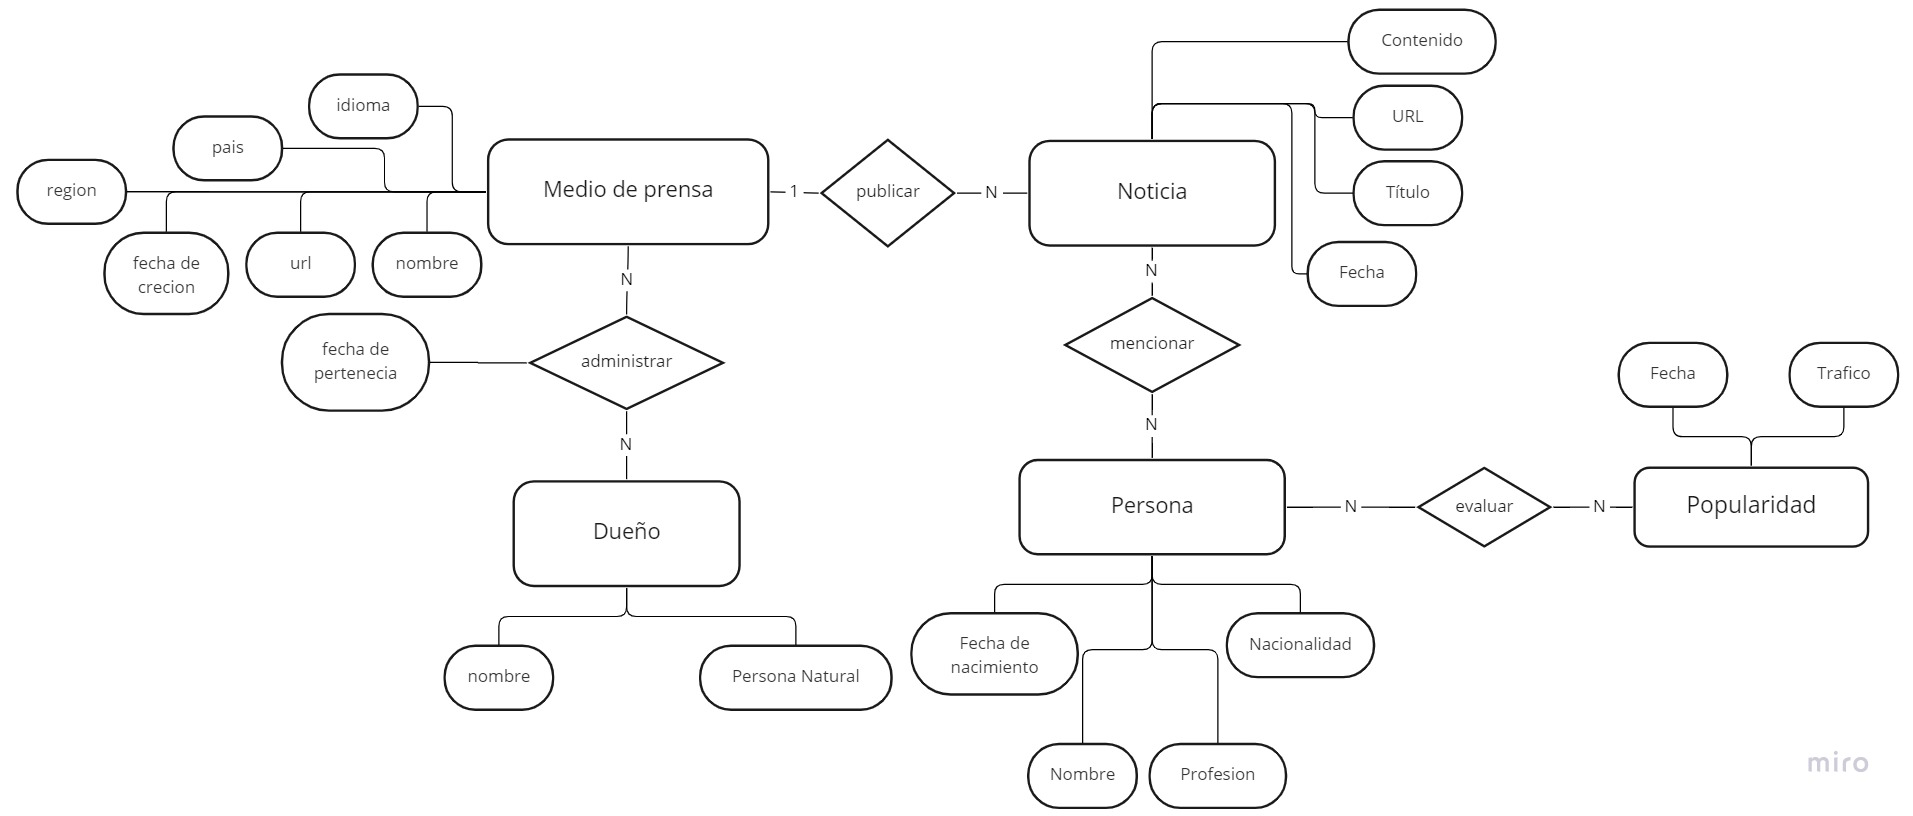
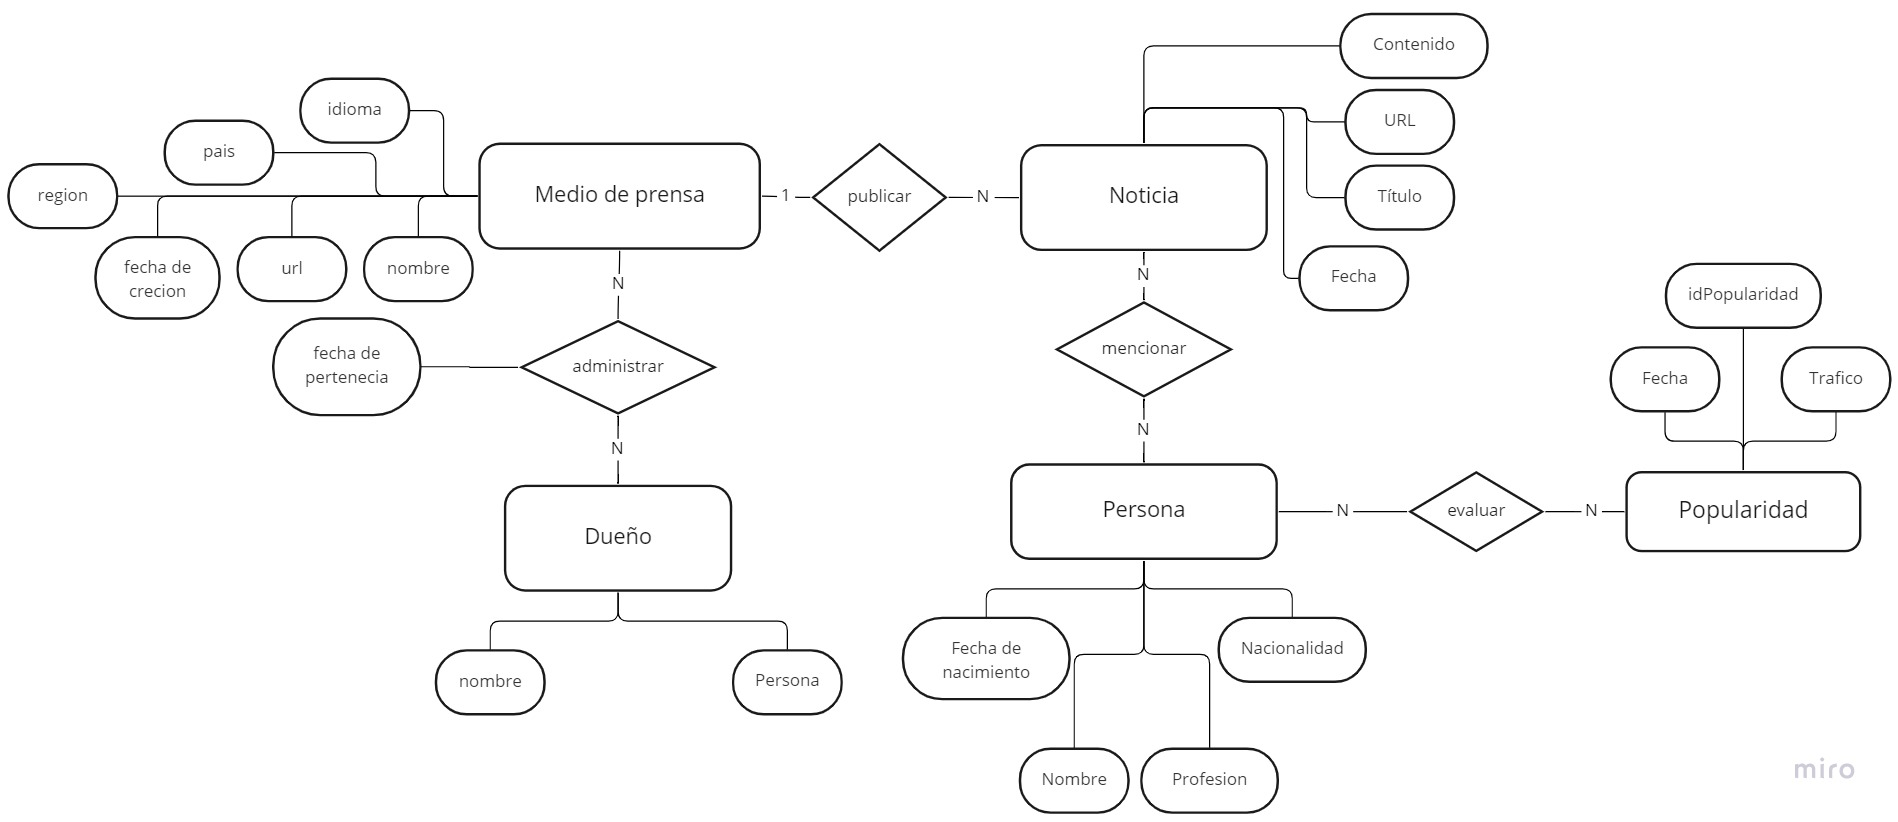
Avance entregable 5

diff --git a/createw_db.py b/createw_db.py
@@ -26,7 +26,9 @@ cur.execute("USE Proyectobd")
 #cur.execute("CREATE TABLE administrar(fecha DATE,nombreMedio VARCHAR(100) ,nombreDueño VARCHAR(100),FOREIGN KEY (nombreMedio) REFERENCES medioPrensa(nombre),FOREIGN KEY (nombreDueño) REFERENCES dueño(nombre),PRIMARY KEY(fecha,nombreMedio,nombreDueño))")
 #cur.execute("CREATE TABLE noticia(url VARCHAR(100) PRIMARY KEY, nombreMedio VARCHAR(100), fecha DATE, titulo VARCHAR(100), contenido VARCHAR(100), FOREIGN KEY (nombreMedio) REFERENCES medioPrensa(nombre))")
 #cur.execute("CREATE TABLE persona(nombre VARCHAR(100) PRIMARY KEY, fechaNacimiento DATE, profesion VARCHAR(100), nacionalidad VARCHAR(100))")
-cur.execute("CREATE TABLE mencionar(urlNoticia VARCHAR(100), nombrePersona VARCHAR(100), FOREIGN KEY (urlNoticia) REFERENCES noticia(url), FOREIGN KEY (nombrePersona) REFERENCES persona(nombre), PRIMARY KEY(urlNoticia, nombrePersona))")
+#cur.execute("CREATE TABLE mencionar(urlNoticia VARCHAR(100), nombrePersona VARCHAR(100), FOREIGN KEY (urlNoticia) REFERENCES noticia(url), FOREIGN KEY (nombrePersona) REFERENCES persona(nombre), PRIMARY KEY(urlNoticia, nombrePersona))")
+cur.execute("CREATE TABLE popularidad(idPopularidad VARCHAR(100) PRIMARY KEY, fecha DATE, trafico VARCHAR(100))")
+cur.execute("CREATE TABLE evaluar(nombrePersona VARCHAR(100), idPopularidad VARCHAR(100), FOREIGN KEY (nombrePersona) REFERENCES persona(nombre), FOREIGN KEY (idPopularidad) REFERENCES popularidad(idPopularidad), PRIMARY KEY(nombrePersona, idPopularidad))")
 
 cur.execute("describe medioPrensa")
 # Show results
